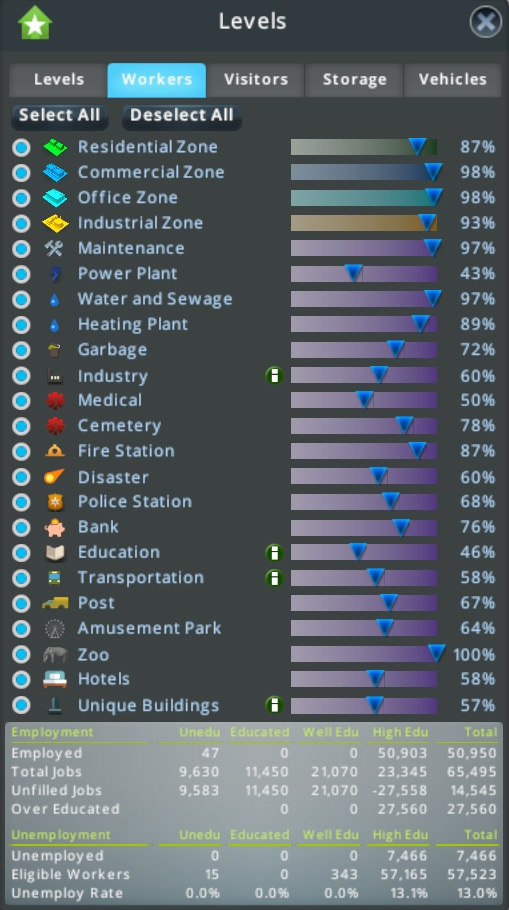
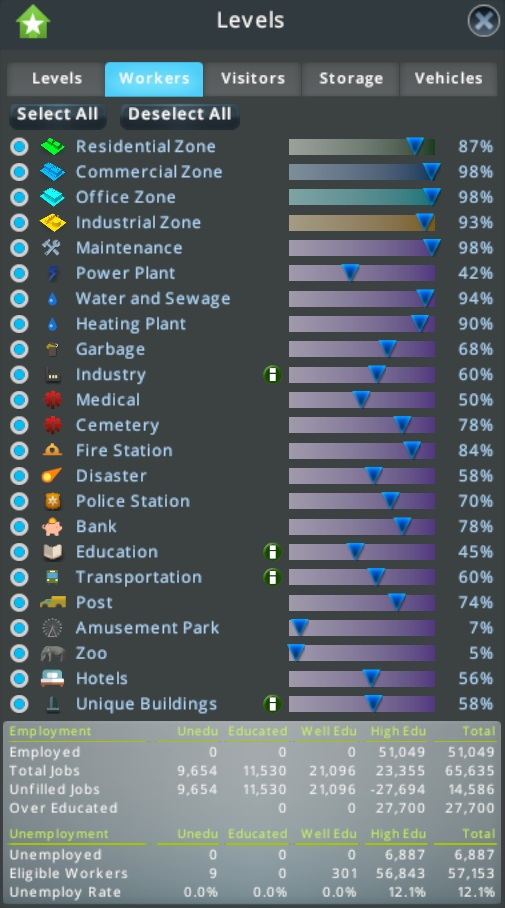
Version 1.24

diff --git a/UsagePanel.cs b/UsagePanel.cs
@@ -2351,7 +2351,7 @@ namespace BuildingUsage
                                 // exclude residents of nursing home who should never be unemployed but are sometimes marked as unemployed
                                 if (citizen.Unemployed != 0 && !isNursingHome)
                                 {
-                                    switch (instance.m_citizens.m_buffer[citizenID].EducationLevel)
+                                    switch (citizen.EducationLevel)
                                     {
                                         case Citizen.Education.Uneducated:   unemployed.level0++; break;
                                         case Citizen.Education.OneSchool:    unemployed.level1++; break;
@@ -2462,6 +2462,7 @@ namespace BuildingUsage
             }
 
             // logic adapted from ParkGateAI and ParkBuildingAI private methods CountWorkers and TargetWorkers
+            // except include only age groups that are eligible to be employed
 
             // only Amusement Park and Zoo have workers
             DistrictPark.ParkType parkType = GetParkType(data.Info);
@@ -2471,25 +2472,33 @@ namespace BuildingUsage
                 int citizenCounter = 0;
                 CitizenManager instance = CitizenManager.instance;
                 uint maximumCitizenUnits = instance.m_units.m_size;
-                uint citizen = data.m_sourceCitizens;
-                while (citizen != 0)
+                uint citizenID = data.m_sourceCitizens;
+                while (citizenID != 0)
                 {
                     // exclude animals
-                    CitizenInfo info = instance.m_instances.m_buffer[citizen].Info;
+                    CitizenInstance citizenInstance = instance.m_instances.m_buffer[citizenID];
+                    CitizenInfo info = citizenInstance.Info;
                     if (!info.m_citizenAI.IsAnimal() && info.m_class.m_service == ItemClass.Service.Beautification)
                     {
-                        // count by education level
-                        switch (instance.m_citizens.m_buffer[citizen].EducationLevel)
+                        // include only Young Adults and Adults
+                        // if Hadron Collider is built, then include teens
+                        Citizen citizen = instance.m_citizens.m_buffer[citizenID];
+                        Citizen.AgeGroup ageGroup = Citizen.GetAgeGroup(citizen.Age);
+                        if (ageGroup == Citizen.AgeGroup.Young || ageGroup == Citizen.AgeGroup.Adult || (_hadronColliderBuilt && ageGroup == Citizen.AgeGroup.Teen))
                         {
-                            case Citizen.Education.Uneducated:   employed.level0++; break;
-                            case Citizen.Education.OneSchool:    employed.level1++; break;
-                            case Citizen.Education.TwoSchools:   employed.level2++; break;
-                            case Citizen.Education.ThreeSchools: employed.level3++; break;
+                            // count by education level
+                            switch (citizen.EducationLevel)
+                            {
+                                case Citizen.Education.Uneducated:   employed.level0++; break;
+                                case Citizen.Education.OneSchool:    employed.level1++; break;
+                                case Citizen.Education.TwoSchools:   employed.level2++; break;
+                                case Citizen.Education.ThreeSchools: employed.level3++; break;
+                            }
                         }
                     }
 
                     // get the next citizen
-                    citizen = instance.m_instances.m_buffer[citizen].m_nextSourceInstance;
+                    citizenID = citizenInstance.m_nextSourceInstance;
 
                     // check for error (e.g. circular reference)
                     if (++citizenCounter > maximumCitizenUnits)

diff --git a/Properties/AssemblyInfo.cs b/Properties/AssemblyInfo.cs
@@ -21,7 +21,7 @@ using System.Runtime.InteropServices;
 // The AssemblyVersion has the format "{Major}.{Minor}.{Build}.{Revision}".
 // The form "{Major}.{Minor}.*" will automatically update the build and revision.
 // The form "{Major}.{Minor}.{Build}.*" will update just the revision.
-[assembly: AssemblyVersion("1.23.*")]
+[assembly: AssemblyVersion("1.24.*")]
 
 // The AssemblyFileVersion is commented out which causes the AssemblyFileVersion to be the same as the AssemblyVersion, as desired.
 //[assembly: AssemblyFileVersion("1.0.0.0")]
